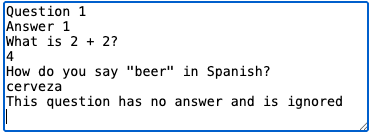
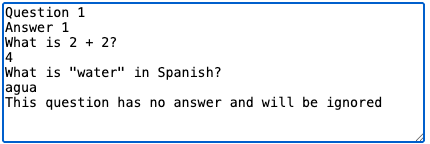
fix image issue for file help modal

Changed region(s): [[0.0, 0.0, 1.0, 1.0]]

diff --git a/src/components/FileHelpModal.js b/src/components/FileHelpModal.js
@@ -1,6 +1,7 @@
 import { useState } from "react";
 
-import { Image, Platform, Pressable, StyleSheet, Text, View } from "react-native";
+import { Image } from "expo-image";
+import { Platform, Pressable, StyleSheet, Text, View } from "react-native";
 
 import FontAwesome6 from "@expo/vector-icons/FontAwesome6";
 //import MaterialCommunityIcons from "@expo/vector-icons/MaterialCommunityIcons";
@@ -14,6 +15,7 @@ const SAFE_MODAL_WIDTH = MODAL_WIDTH * 0.95;
 
 const FileHelpModal = ({ showModal, setShowModal, scheme }) => {
   const [currentPage, setCurrentPage] = useState(0);
+
   const pages = [
     <View style={{ flexDirection: "column" }}>
       <MaterialCommunityIcons
@@ -26,8 +28,8 @@ const FileHelpModal = ({ showModal, setShowModal, scheme }) => {
         TXT files should alternate between question (odd lines) and answers (even lines)
       </Text>
       <Image
-        style={{ flex: 1, marginTop: 10, alignSelf: "center", width: 250, height: 150, resizeMode: "contain" }}
         source={require("../../assets/txt_example.png")}
+        style={{ flex: 1, width: 430, height: 144, alignSelf: "center", transform: [{ scale: 0.55 }] }}
       />
     </View>,
     <View style={{ flexDirection: "column" }}>
@@ -41,8 +43,8 @@ const FileHelpModal = ({ showModal, setShowModal, scheme }) => {
         CSV files should be saved as CSV files, with questions in column 1 and answers in column 2
       </Text>
       <Image
-        style={{ flex: 1, marginTop: 10, alignSelf: "center", width: 250, height: 150, resizeMode: "contain" }}
         source={require("../../assets/csv_example.png")}
+        style={{ flex: 1, width: 376, height: 171, alignSelf: "center", transform: [{ scale: 0.6 }] }}
       />
     </View>,
   ];
@@ -69,7 +71,7 @@ const FileHelpModal = ({ showModal, setShowModal, scheme }) => {
             { flex: 2, width: SAFE_MODAL_WIDTH + 10, marginHorizontal: "auto", marginTop: 5, padding: 10 },
           ]}
         >
-          <Text style={[styles.modalTitle, scheme.txt, { flex: 11 }]}>File Help</Text>
+          <Text style={[styles.modalTitle, scheme.txt, { flex: 11, paddingLeft: 5 }]}>File Help</Text>
           <Pressable onPress={() => setShowModal(false)}>
             <FontAwesome6
               name="square-xmark"
@@ -83,18 +85,18 @@ const FileHelpModal = ({ showModal, setShowModal, scheme }) => {
         <View style={{ flex: 9 }}>
           <View style={{ flexDirection: "row", alignItems: "center" }}>
             <Pressable
-              style={{ flex: 2, paddingLeft: 10 }}
+              style={{ flex: 1, paddingLeft: 5 }}
               onPress={() => (currentPage > 0 ? setCurrentPage((currentPage + pages.length - 1) % pages.length) : null)}
             >
               {currentPage > 0 && <MaterialCommunityIcons name="chevron-left" size={36} color={scheme.txt.color} />}
             </Pressable>
             <View
-              style={{ flex: 8, width: SAFE_MODAL_WIDTH - 40, height: 320, overflow: "scroll", paddingHorizontal: 10 }}
+              style={{ flex: 10, width: SAFE_MODAL_WIDTH - 40, height: 320, overflow: "scroll", paddingHorizontal: 20 }}
             >
               {pages[currentPage]}
             </View>
             <Pressable
-              style={{ flex: 2, paddingRight: 10, alignItems: "flex-end" }}
+              style={{ flex: 1, paddingRight: 5, alignItems: "flex-end" }}
               onPress={() =>
                 currentPage < pages.length - 1 ? setCurrentPage((currentPage + pages.length + 1) % pages.length) : null
               }
@@ -105,7 +107,6 @@ const FileHelpModal = ({ showModal, setShowModal, scheme }) => {
             </Pressable>
           </View>
         </View>
-        {/* <View style={{ flex: 1, alignItems: "center", marginVertical: 10 }}> */}
         <View style={{ flex: 1, width: 50, alignSelf: "center", marginVertical: 10 }}>
           <View style={{ flexDirection: "row", alignItems: "center" }}>
             {pages.map((_, idx) => (

diff --git a/README.md b/README.md
@@ -23,6 +23,7 @@ Initial idea: someone going on a multi country tour wants to learn the local lan
 
 -   Why use react native paper?
     -   I don't remember, but I think it was because I tried to use TailwindCSS and the CSS library didn't work as expected. I know now that some libraries do work, e.g. Bootstrap
+    -   Looks like "NativeWind" can be used
 -   Why not support mixed quotes for csv parsing?
     -   I only support either zero quotes or full quotes for csv. Attempting to code for a combination of quoted and unquoted values increases the required parsing logic, so I put that off.
 
@@ -93,6 +94,12 @@ itemMenuButton: {
 
 ## Current Roadmap Development
 
+- [ ] Simple way to create a deck
+    - [ ] textbox: name of deck
+    - [ ] "textarea" where questions are on odd lines and answers on even lines
+        - [ ] limit 50 questions
+    - [ ] help or tutorial
+
 - [ ] closed beta
 
 - [ ] confirm my real name isnt available with app
@@ -102,6 +109,7 @@ itemMenuButton: {
 - [ ] llc
 
 - [ ] beta bugs/improvements
+    -   [x] example image for file help doesnt fit
     -   [x] quizmodal move inside menu component
     -   [x] consolidate modal styles (very similar)
     -   [ ] question: continue language support?
@@ -116,6 +124,8 @@ itemMenuButton: {
     -   [ ] file help
         - [ ] animation when changing pages
         - [ ] swipe between pages
+    -   [ ] MW an issue: causes card to go bigger at bottom
+    -   [ ] theme does not respond to very first click with no setting, so no default is set upon launch
 
 - [ ] add tip to menu (needs llc name)
     -   [ ] (free users only) tips: after certain amount of uses, tip popup with option to "dont show again"
@@ -130,26 +140,30 @@ itemMenuButton: {
 
 ## Possible future dev
 
+-   [ ] new feature release: quiz and timing
+    -   [ ] quiz mode: all answers from deck randomized, 4 choices given per question
+        -   [ ] add quiz screen i.e. questions with multiple answers
+            -   [ ] duplicate review screen
+            -   [ ] default route to new quiz screen
+            -   [ ] get 2 answers from "original" bag
+            -   [ ] show question
+            -   [ ] show answers
+            -   [ ] on answer pick, show right answer
+            -   [ ] next/reset/remix same
+            -   [ ] previous?
+            -   [ ] WHEN DONE, route list to review
+
+        -   [ ] select review or quiz for deck
+            -   [ ] how?
+-   [ ] new feature release: audio mode
+        - [ ] possible problem connecting to bluetooth
+
 -   [ ] reorder deck list
 -   [ ] make new deck from existing deck
 -   [ ] menu when clicking on deck for modes: review, quiz, etc
--   [ ] quiz mode: all answers from deck randomized, 4 choices given per question
-    -   [ ] add quiz screen i.e. questions with multiple answers
-        -   [ ] duplicate review screen
-        -   [ ] default route to new quiz screen
-        -   [ ] get 2 answers from "original" bag
-        -   [ ] show question
-        -   [ ] show answers
-        -   [ ] on answer pick, show right answer
-        -   [ ] next/reset/remix same
-        -   [ ] previous?
-        -   [ ] WHEN DONE, route list to review
-
-    -   [ ] select review or quiz for deck
-        -   [ ] how?
 
 -   [ ] audio mode (for drivers): question is asked, 5 second pause, answer given
-    - [ ] possible problem connecting to bluetooth
+
 -   [ ] custom card themes
 -   [ ] different settings for modes
 -   [ ] text box for inputting questions on the fly
